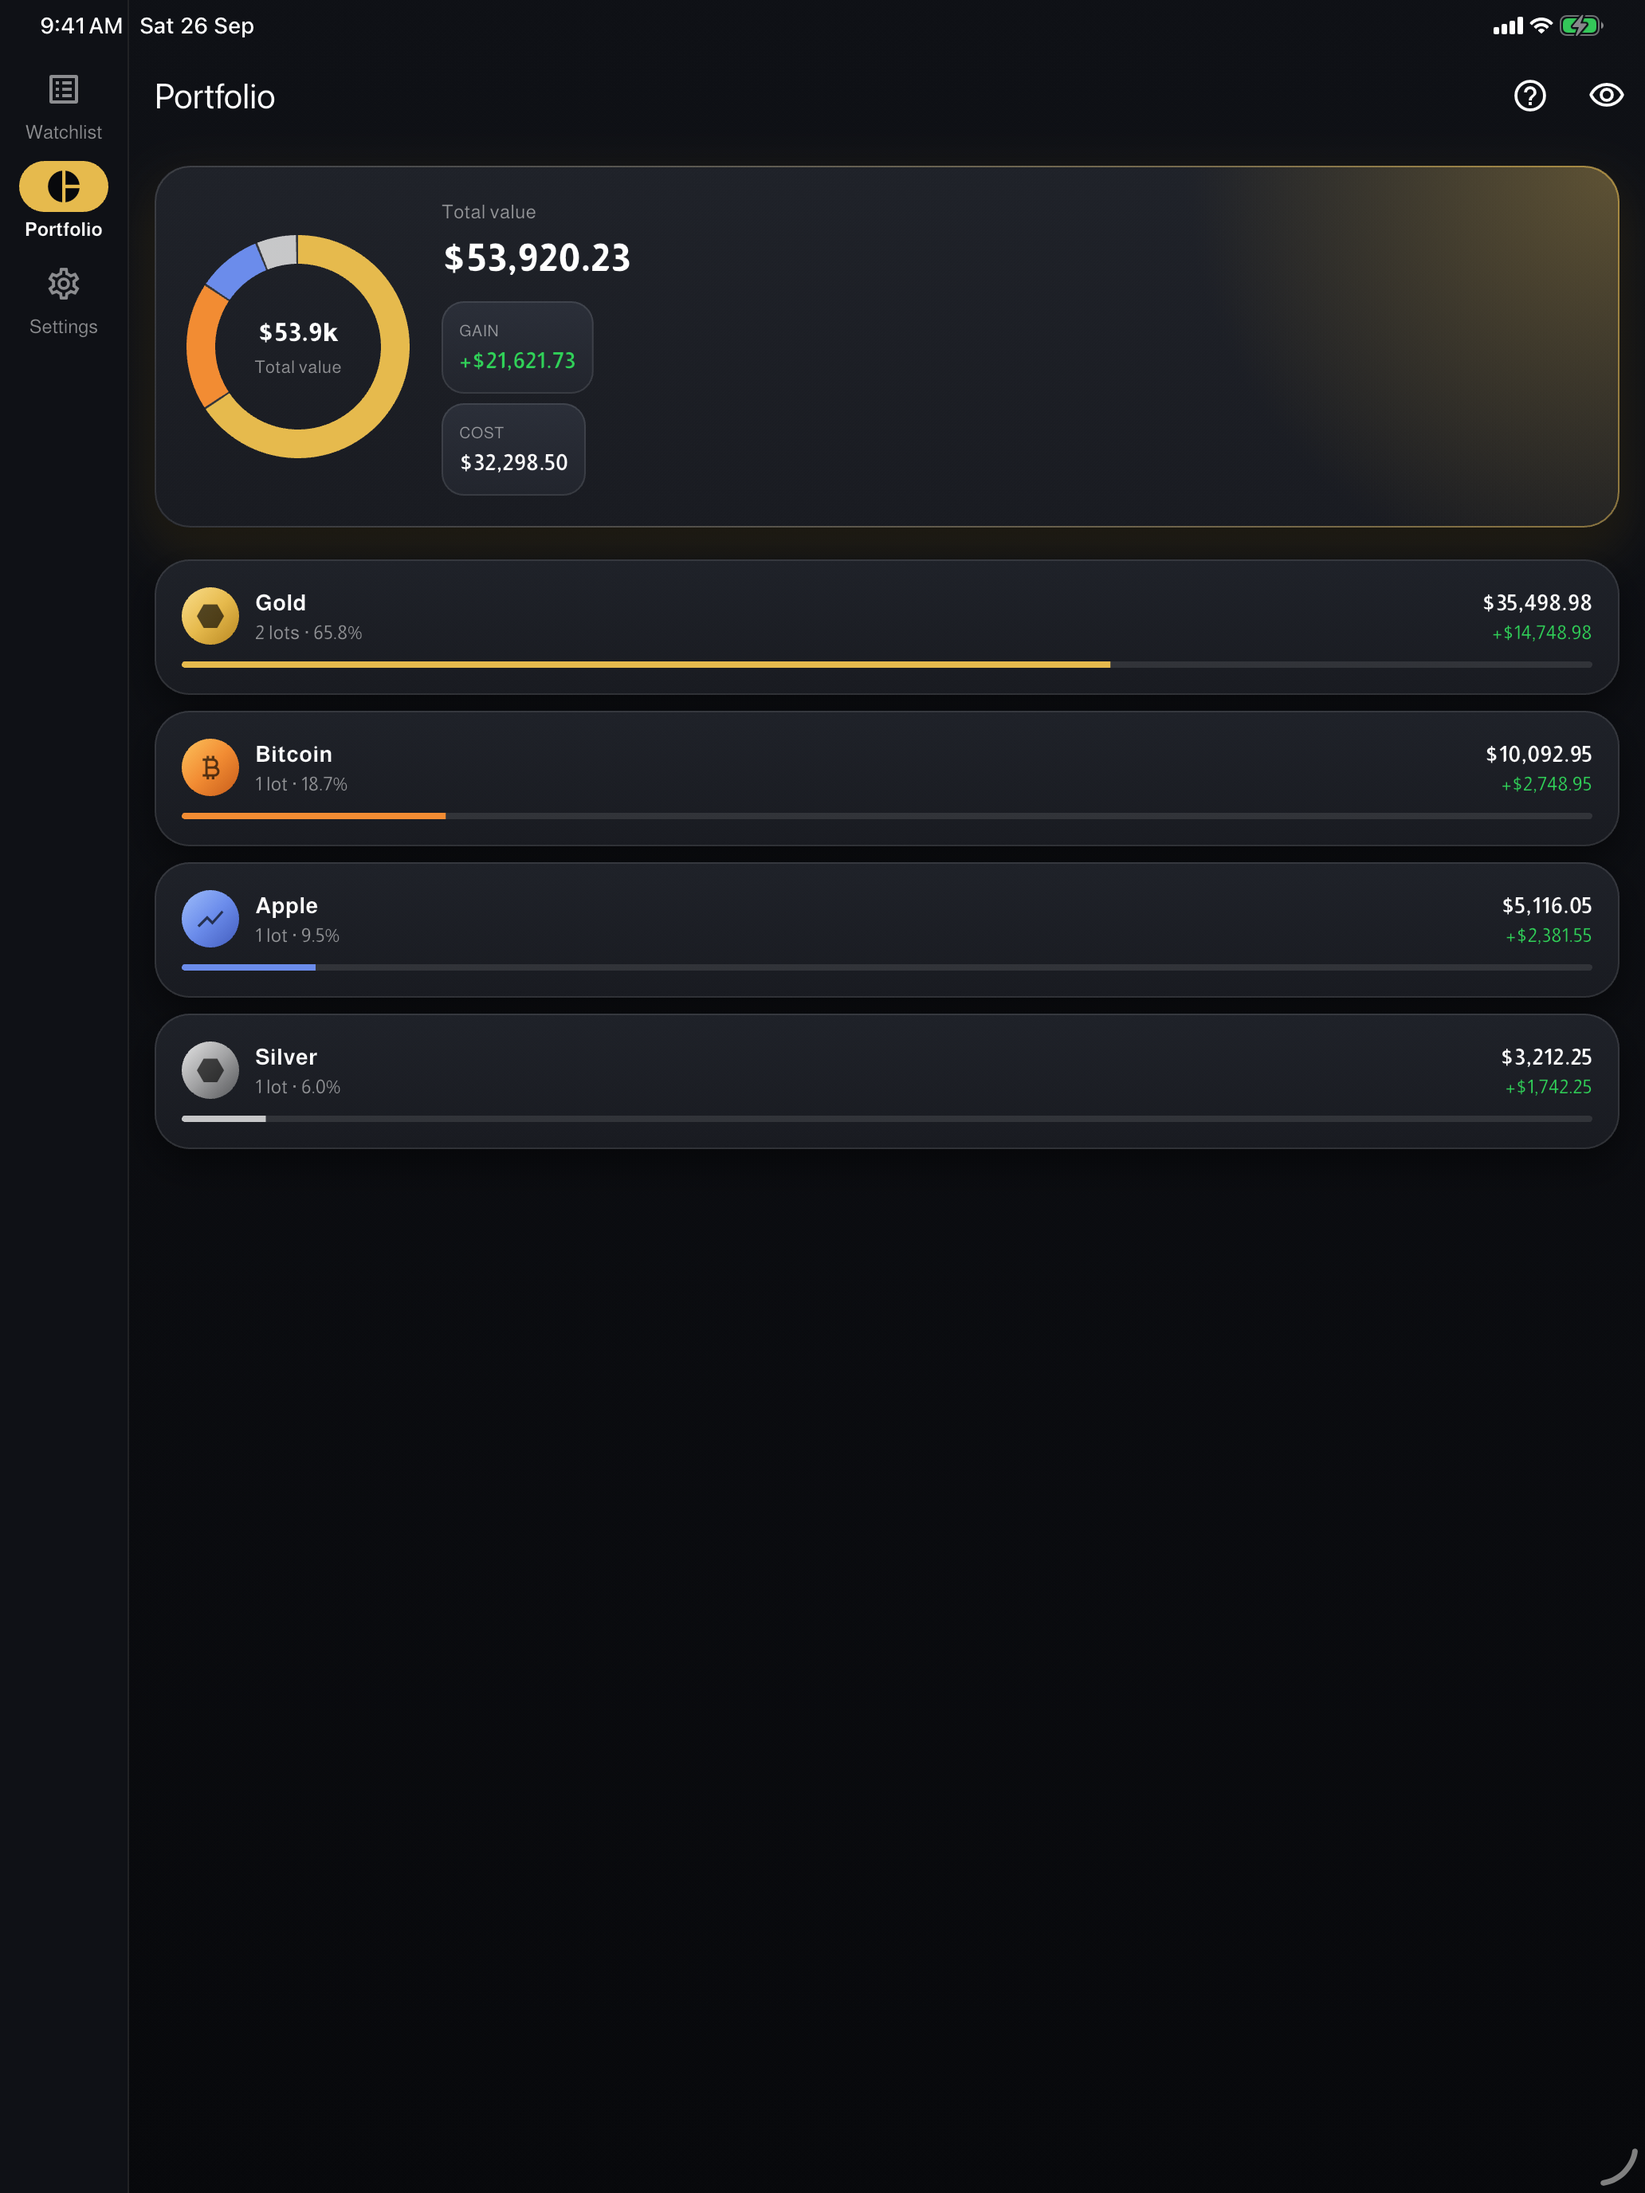
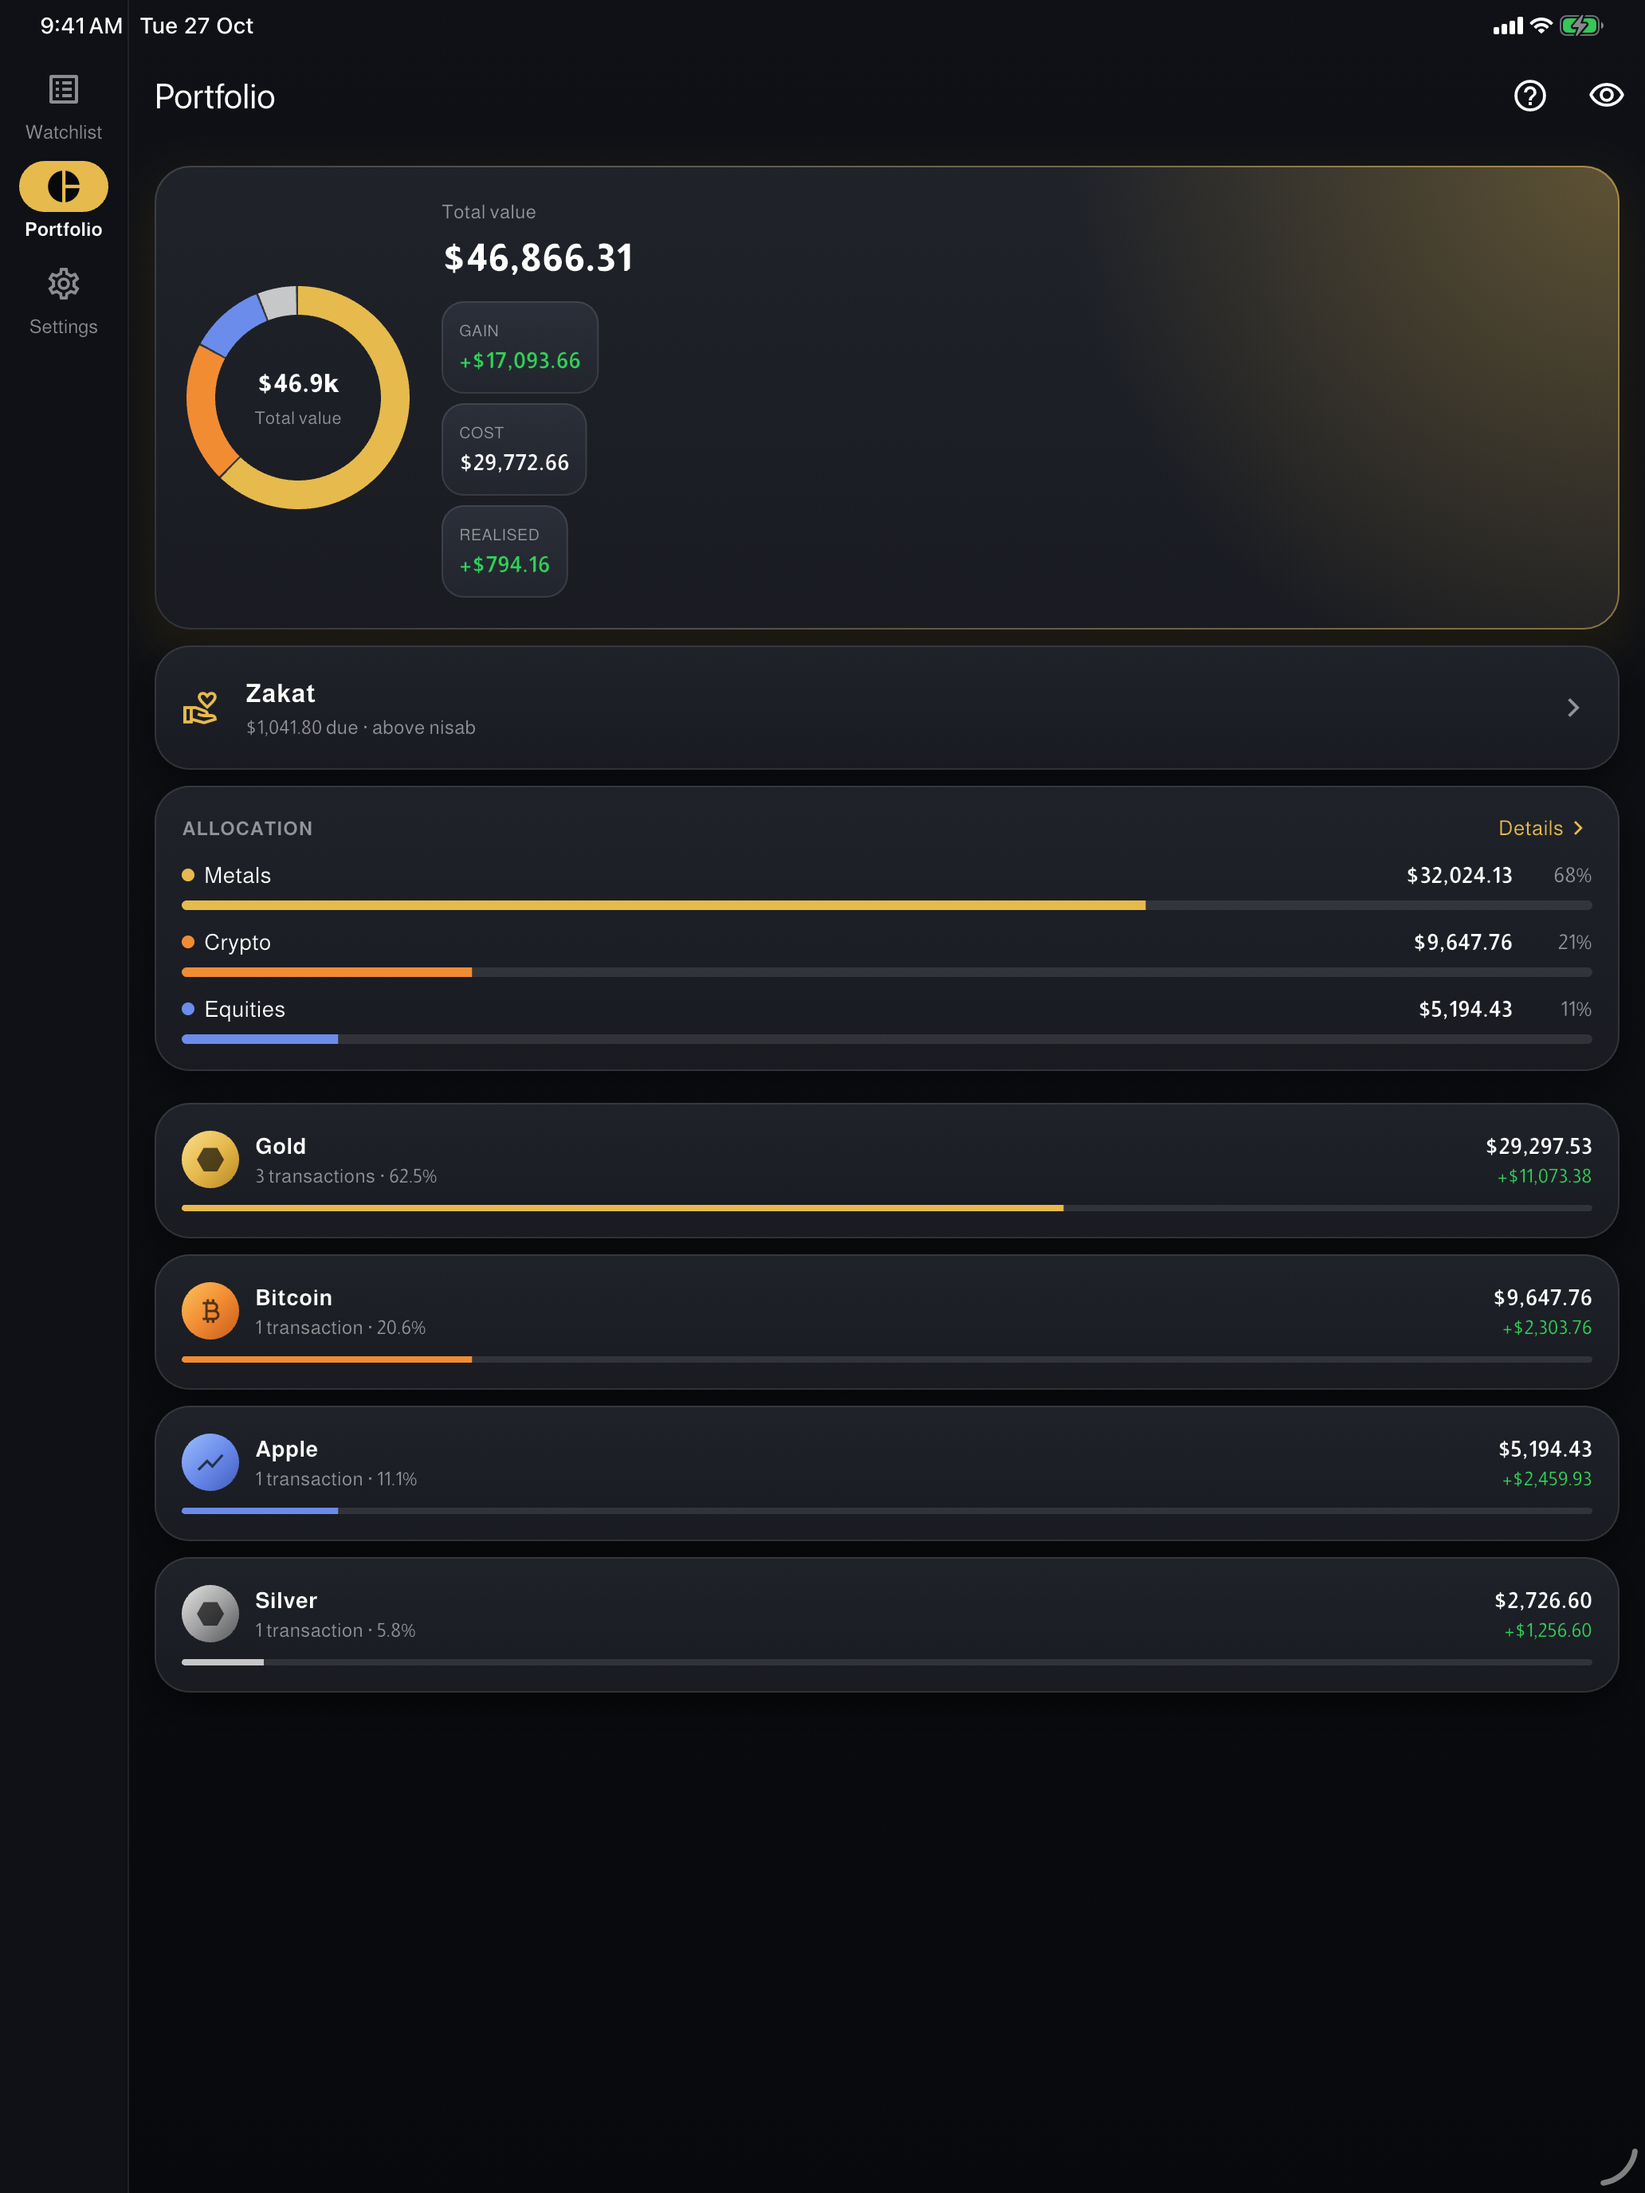
Show allocation, zakat and the ledger in the store screenshots
The demo seed now records a gold sale and a hawl start, and the capture
walkthrough opens the allocation and zakat screens after the portfolio.
iPhone 6.9" and iPad 13" captures in English and Arabic, filed for the
App Store and as Play phone screenshots. The Play feature graphics are
unchanged: they show the watchlist, which looks the same as in 2.x.

Changed region(s): [[0.093, 0.0938, 0.9922, 0.7812], [0.2791, 0.0938, 0.3721, 0.125], [0.093, 0.0, 0.155, 0.0312]]

diff --git a/integration_test/store_screenshots_test.dart b/integration_test/store_screenshots_test.dart
@@ -7,8 +7,11 @@ import 'package:flutter_test/flutter_test.dart';
 import 'package:integration_test/integration_test.dart';
 import 'package:qima/blocs/app_cubit.dart';
 import 'package:qima/main.dart';
+import 'package:qima/models/zakat.dart';
+import 'package:qima/screens/allocation_screen.dart';
 import 'package:qima/screens/home_shell.dart';
 import 'package:qima/screens/instrument_detail_screen.dart';
+import 'package:qima/screens/zakat_screen.dart';
 import 'package:qima/services/preferences.dart';
 import 'package:qima/widgets/instrument_row.dart';
 
@@ -41,6 +44,11 @@ Future<void> _shot(WidgetTester tester, String name) async {
   print('QIMA_SCREENSHOT $name');
   await _wait(_holdForCapture);
 }
+
+/// Opens [screen] on the root navigator, as its card on the portfolio tab
+/// would; a tap could land off-screen on smaller devices.
+void _push(WidgetTester tester, Widget screen) =>
+    tester.state<NavigatorState>(find.byType(Navigator).first).push(MaterialPageRoute<void>(builder: (_) => screen));
 
 /// Closes whatever the root navigator last pushed (detail page or add flow).
 void _popRoute(WidgetTester tester) => tester.state<NavigatorState>(find.byType(Navigator).first).pop();
@@ -92,12 +100,28 @@ void main() {
     await tester.tap(find.byIcon(Icons.pie_chart_outline));
     await _shot(tester, '4_portfolio');
 
+    _push(tester, const AllocationScreen());
+    await _shot(tester, '5_allocation');
+    _popRoute(tester);
+    await _wait(const Duration(seconds: 1));
+
+    _push(tester, const ZakatScreen());
+    // The nisab needs live gold and silver prices.
+    final nisab = DateTime.now().add(const Duration(seconds: 30));
+    while (cubit.zakatAssessment.status == NisabStatus.thresholdUnknown) {
+      if (DateTime.now().isAfter(nisab)) throw TestFailure('Nisab prices did not load.');
+      await _wait(const Duration(milliseconds: 500));
+    }
+    await _shot(tester, '6_zakat');
+    _popRoute(tester);
+    await _wait(const Duration(seconds: 1));
+
     await tester.tap(find.byIcon(Icons.list_alt_outlined));
     await _wait(const Duration(seconds: 1));
     await tester.tap(find.byIcon(Icons.add).first);
     await _wait(const Duration(seconds: 1));
     // The search field focuses itself; keep the keyboard out of the shot.
     FocusManager.instance.primaryFocus?.unfocus();
-    await _shot(tester, '5_add_asset');
+    await _shot(tester, '7_add_asset');
   });
 }

diff --git a/integration_test/store_demo_seed.dart b/integration_test/store_demo_seed.dart
@@ -8,6 +8,7 @@ import 'package:qima/models/holding.dart';
 import 'package:qima/models/holding_transaction.dart';
 import 'package:qima/models/metal_breakdown.dart';
 import 'package:qima/models/watch_card.dart';
+import 'package:qima/models/zakat.dart';
 import 'package:qima/services/preferences.dart';
 
 /// Replaces the watchlist and holdings with the demo set, in [language] and
@@ -91,6 +92,20 @@ Future<void> seedStoreDemo(AppCubit cubit, {AppLanguage language = AppLanguage.e
   for (final lot in lots) {
     await cubit.saveTransaction(HoldingTransaction.fromLot(lot));
   }
+  // One sale, so the ledger and the portfolio show a realised gain.
+  await cubit.saveTransaction(HoldingTransaction(
+    id: 'shot-tx-sell-1',
+    instrumentID: 'metal.XAU',
+    kind: TransactionKind.sell,
+    quantity: 1,
+    unit: PriceUnit.troyOunce,
+    unitPrice: 3320,
+    currency: 'USD',
+    date: DateTime(2025, 5, 20),
+  ));
+  // Default zakat classes with a hawl under way, so the zakat screen shows
+  // what's due and when instead of asking for a start date.
+  await cubit.updateZakatSettings((_) => ZakatSettings(hawlStart: DateTime(2025, 3, 30)));
   await cubit.refreshAll();
   await cubit.backfillHistoryIfNeeded();
 }
